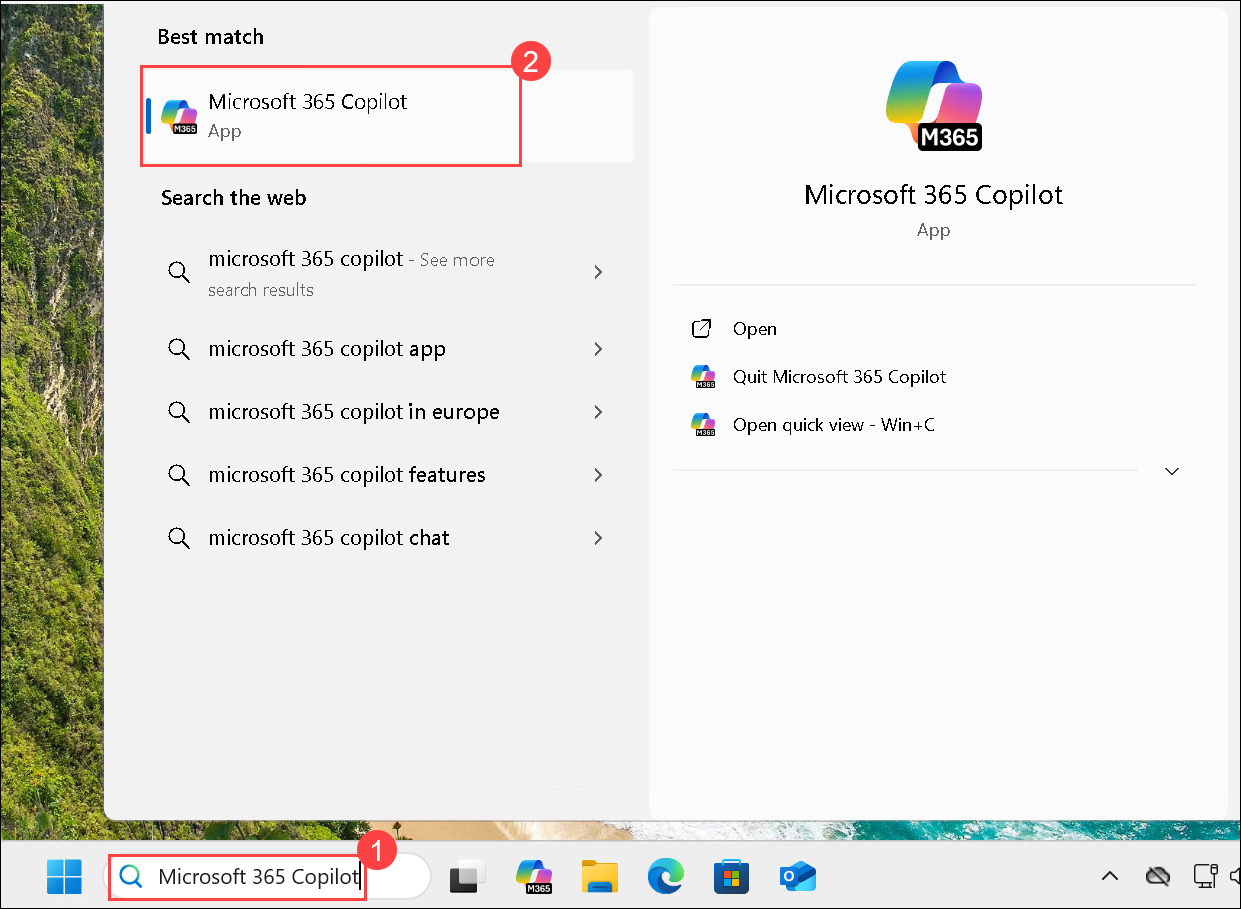
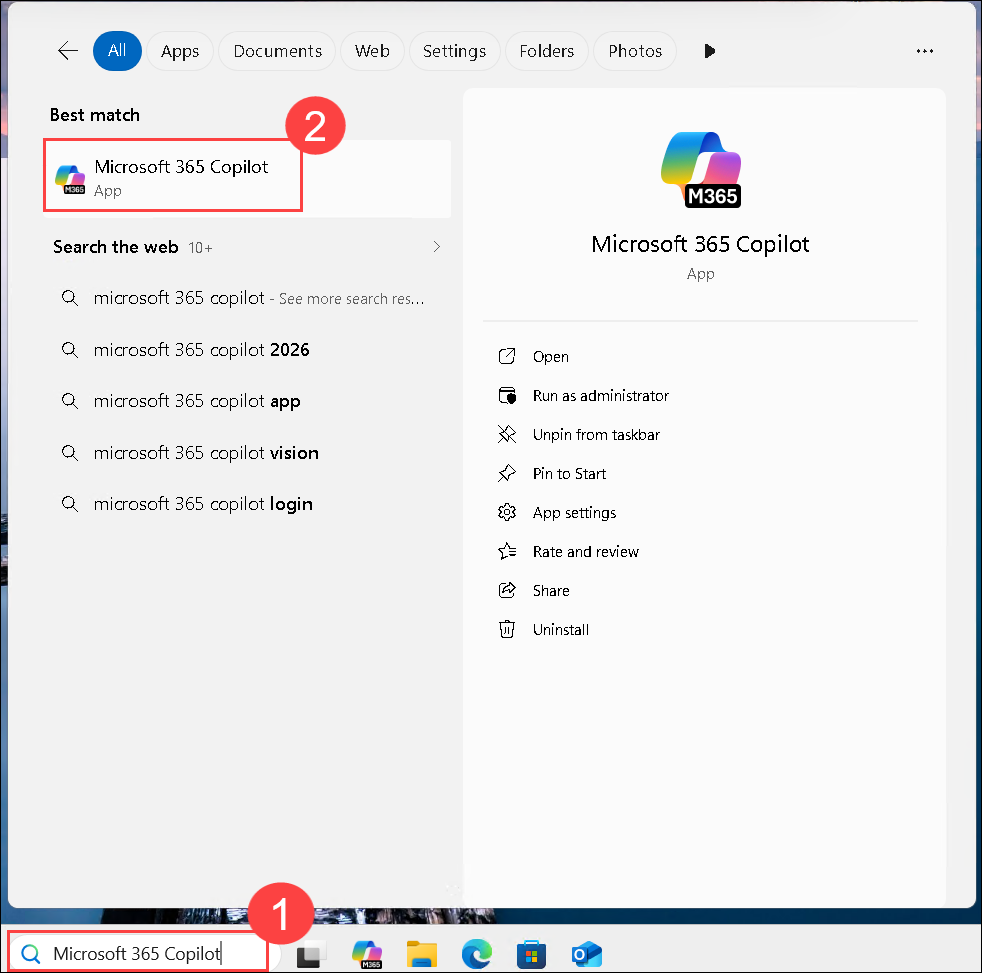
Added privacy Steps and Replace Blurred ss

diff --git a/labguide/pax8.md b/labguide/pax8.md
@@ -25,6 +25,16 @@ This lab simulates a real-world transformation journey, empowering you to apply 
 + **Task 1:** Understanding Contoso Corp’s Chaos (Exploring the free Version of Copilot Chat) 
 + **Task 2:** Leveraging Organizational Data for Insights (Exploring M365 Copilot Chat) 
 
+### Environment Setup
+
+1. On the **Lab VM**, when prompted to **Choose privacy settings for your device**, click **Next** thrice.
+
+    ![](./media/privacy-1.png)
+
+2. Click **Accept** to confirm and apply the privacy settings.
+  
+    ![](./media/privacy-2.png)
+   
 ### Task 1: Understanding Contoso Corp’s Chaos (Exploring the Free Version of Copilot Chat) 
 
 In this task, you will simulate a real-world scenario where you analyze internal documentation by using the Free version of Copilot chat. We're using Copilot Chat (Free) with Enterprise Data protection, using our user's organizational identity (Entra ID). 
@@ -39,7 +49,7 @@ In this task, you will simulate a real-world scenario where you analyze internal
 
    ![](./media/l1-m-3.png)
 
-   >**Please Note**: If you encounter an error such as “No Network Connection,” **please open the Microsoft Edge browser on the VM desktop, navigate to ```https://m365.cloud.microsoft/```** and try again.
+   >**Please Note**: If you encounter an error such as “No Network Connection,” **please open the Microsoft Edge browser on the VM desktop, navigate to ```https://m365.cloud.microsoft/```** and try sign in again.
 
       - On the **Sign in** page enter **Email/Username:** **<inject key="AzureAdUserEmail"></inject>** **(1)** and click on **Next (2)**.
    
